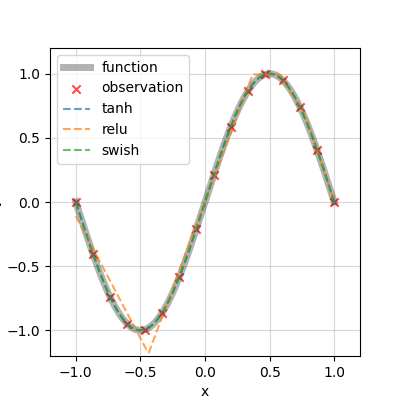
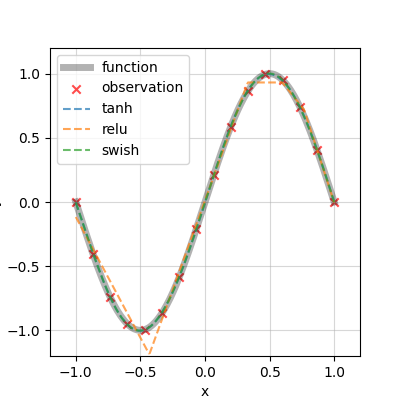
fix visualiation

diff --git a/00_tf2/main.py b/00_tf2/main.py
@@ -16,7 +16,7 @@ def main():
     config_gpu(gpu_flg = 1)
 
     # problem setup
-    p_id = 2
+    p_id = 0
     xmin = -1.
     xmax =  1.
     nx   = 2 ** 8
